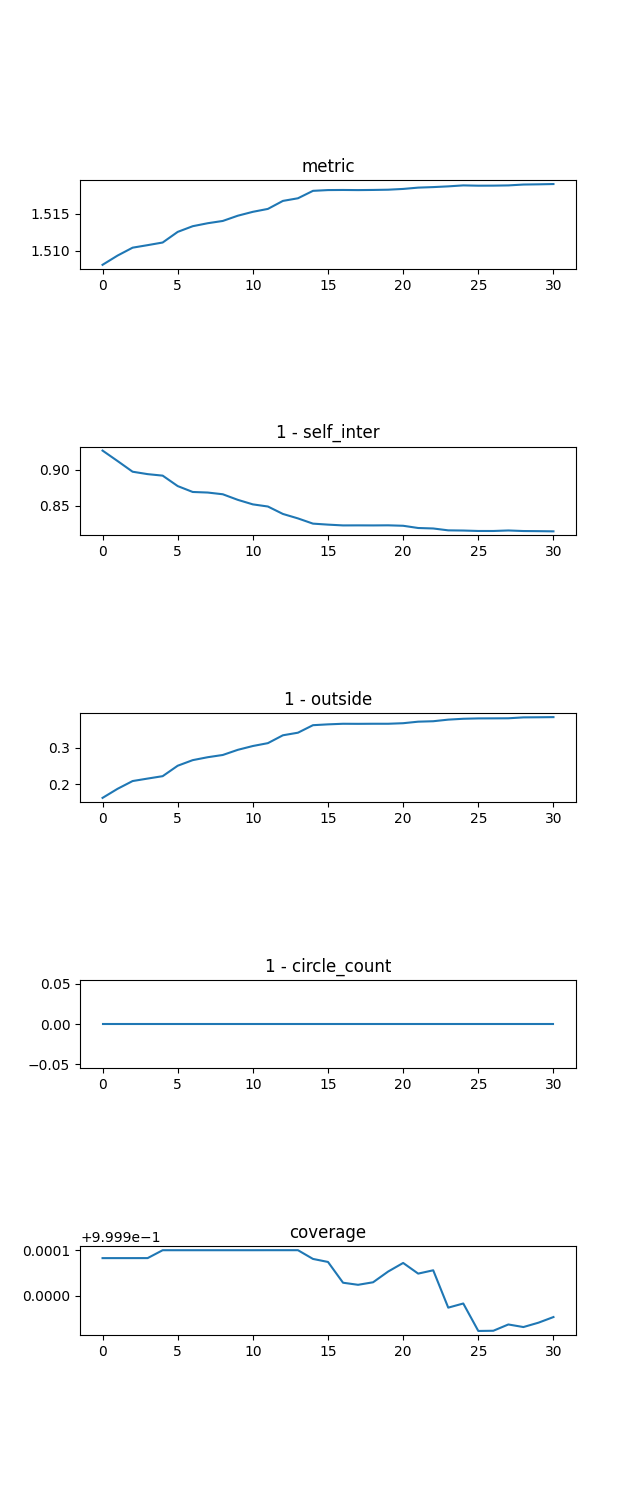
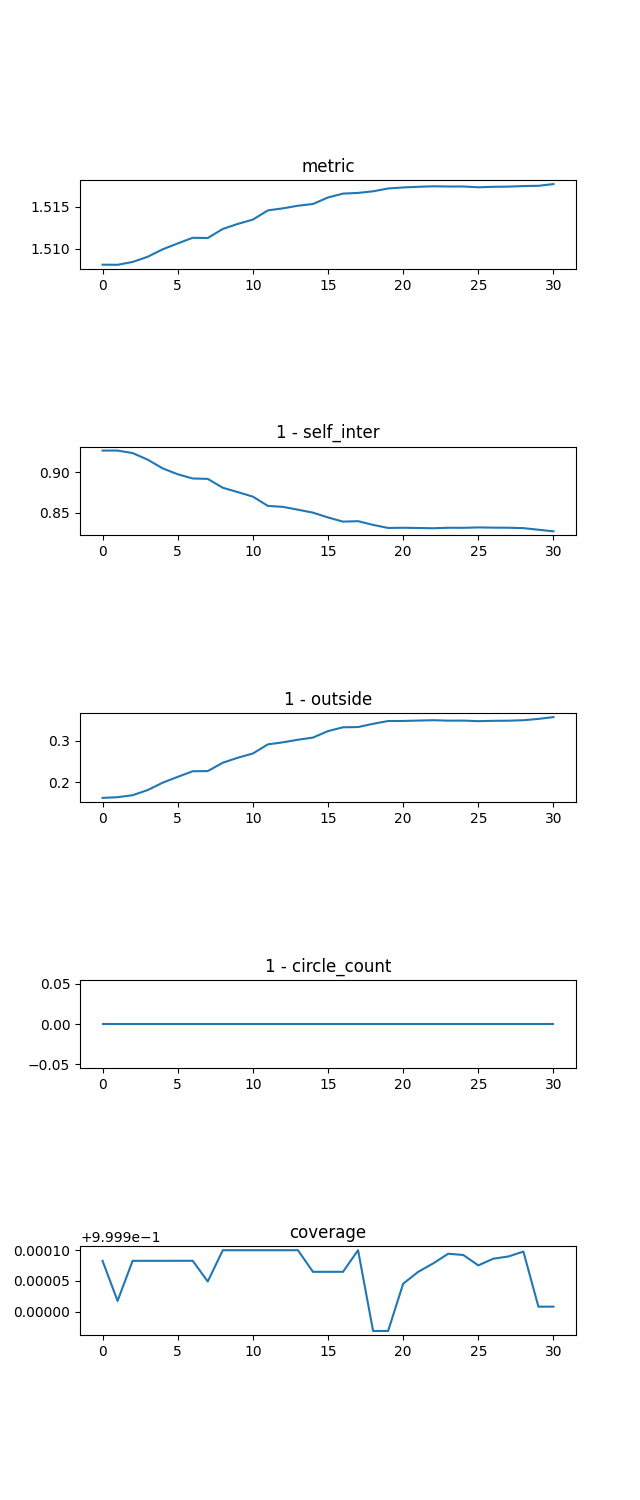
new hexagonal alg

diff --git a/Algorithms/Hexagonal/hexagonal_coverings.py b/Algorithms/Hexagonal/hexagonal_coverings.py
@@ -1,78 +1,12 @@
-from shapely import Point, Polygon, LineString
-import math
-
-from shapely.ops import unary_union
-
-from Utils.Circle import Circle
-
-
-class HexagonalAlgorithm:
-    def __init__(self, P: Polygon, radius: float):
-        self.P = P
-        self.radius = radius
-        (minx, miny, maxx, maxy) = P.bounds
-        self.P_described = Polygon([Point(minx - radius, miny - radius),
-                                    Point(maxx + radius, miny - radius),
-                                    Point(maxx + radius, maxy + radius),
-                                    Point(minx - radius, maxy + radius)])
-
-    def set_params(self,
-                   RESOLUTION: int=5,
-                   ALPHA_RESOLUTION: int=5,
-                   EPS: float = 1e-3):
-        self.RESOLUTION = RESOLUTION
-        self.ALPHA_RESOLUTION = ALPHA_RESOLUTION
-        self.EPS = EPS
-
-    def run_algorithm(self):
-        self.best_ops = (0, 0, 0)
-        self.best_val = float('inf')
-
-        step_alpha = math.pi / 3 / self.ALPHA_RESOLUTION
-        step_x = self.radius / self.RESOLUTION
-        step_y = self.radius / self.RESOLUTION
-        alpha = 0
-        while alpha < math.pi / 3:
-            x = 0
-            while x < self.radius:
-                y = 0
-                while y < self.radius:
-                    S = Point(x, y)
-
-                    important = self.get_important(S, alpha)
-
-                    if len(important) < self.best_val:
-                        self.best_val = len(important)
-                        self.best_ops = (x, y, alpha)
-                    y += step_y
-                x += step_x
-            alpha += step_alpha
-
-    def get_important(self, S, alpha):
-        outer_grid = hexagonal(self.P_described, S, self.radius, alpha)
-
-        inside = [Circle(c, 1) for c in outer_grid if self.P.contains(c)]
-        outside = [Circle(c, 1) for c in outer_grid if not self.P.contains(c)]
-        union = unary_union([c.polygon for c in inside])
-
-        outside.sort(key=
-                     lambda c: self.P.intersection(c.polygon).area,
-                     reverse=True)
-        for c in outside:
-            c_inside_polygon = self.P.intersection(c.polygon)
-            united = unary_union([union, c_inside_polygon])
-            if abs(united.area - union.area) > self.EPS:
-                inside.append(c)
-                union = unary_union([union, c_inside_polygon])
-        return inside
-
-    def get_result(self):
-        return self.get_important(Point(self.best_ops[0], self.best_ops[1]), self.best_ops[2])
-
 
 # Заполнение путём построения шестиугольной сетки.
 # Строит сетку и возвращает центры шестиугольников,
 # которые попали внутрь заданного многоугольника
+import math
+
+import numpy as np
+from shapely import Polygon, Point, LineString
+
 
 def hexagonal(P: Polygon, S: Point, a: float = 1, alpha: float = 0):
     """
@@ -153,3 +87,66 @@ def rotate(p: Point, alpha: float):
     ny = p.x * math.sin(alpha) + p.y * math.cos(alpha)
 
     return Point(nx, ny)
+
+
+# ------------------------------------------------------------------------------
+# Реализация покрытия шестиугольной сеткой с помощью библиотеки Numpy
+# ------------------------------------------------------------------------------
+
+
+def hexagonal_np(P: Polygon, S: Point, a: float = 1, alpha: float = 0):
+    # TODO: сверить размерности
+    rotate = np.array([[np.cos(alpha), -np.sin(alpha)],
+                       [np.sin(alpha), np.cos(alpha)]])
+
+    x0 = np.array([S.x, S.y])
+    (minx, miny, maxx, maxy) = P.bounds
+
+    minx -= x0[0]
+    maxx -= x0[0]
+    miny -= x0[1]
+    maxy -= x0[1]
+
+    v = rotate @ np.array([3 * a, 0])
+    u = rotate @ np.array([3 / 2 * a, a * np.sqrt(3) / 2])
+
+    transition = np.linalg.inv(np.vstack([v, u]).T)
+
+    bounds = transition @ np.array([[minx, maxx, minx, maxx], [miny, maxy, maxy, miny]])
+
+    kminx = np.floor(np.min(bounds[0, :]))
+    kmaxx = np.ceil(np.max(bounds[0, :]))
+    kminy = np.floor(np.min(bounds[1, :]))
+    kmaxy = np.ceil(np.max(bounds[1, :]))
+
+    all_v = (np.arange(kminx, kmaxx + 1) * v.reshape(2, 1)).T
+    all_u = (np.arange(kminy, kmaxy + 1) * u.reshape(2, 1)).T
+
+    coverage = all_v[None, :, :] + all_u[:, None, :]
+
+    # Вернём в изначальную систему координат.
+    coverage += x0
+
+    (minx, miny, maxx, maxy) = P.bounds
+    # Соберём в объекты-точки только те координаты, что могут потенциально пригодиться.
+    shape = coverage.shape
+    coverage = coverage.reshape(shape[0] * shape[1], shape[2])
+
+    cond = np.logical_and(
+        np.logical_and(minx <= coverage[:, 0], coverage[:, 0] <= maxx),
+        np.logical_and(miny <= coverage[:, 1], coverage[:, 1] <= maxy))
+    useful = coverage[cond]
+
+
+    to_points = lambda c: Point(c)
+    to_points_vectorized = np.vectorize(to_points, signature='(d)->()')
+
+    ans = to_points_vectorized(useful)
+    #
+    #for i in range(coverage.shape[0]):
+    #    for j in range(coverage.shape[1]):
+    #        (x, y) = coverage[i, j]
+    #        if minx <= x <= maxx and miny <= y <= maxy:
+    #            ans.append(Point(x, y))
+
+    return list(ans)

diff --git a/Algorithms/Hexagonal/HexagonalAlgorithm.py b/Algorithms/Hexagonal/HexagonalAlgorithm.py
@@ -1,0 +1,80 @@
+import numpy as np
+from shapely import Point, Polygon, LineString
+import math
+
+from shapely.ops import unary_union
+
+from Algorithms.Hexagonal.hexagonal_coverings import hexagonal
+from Utils.Circle import Circle
+
+
+class HexagonalAlgorithm:
+    def __init__(self, P: Polygon, radius: float):
+        self.P = P
+        self.radius = radius
+        (minx, miny, maxx, maxy) = P.bounds
+        self.P_described = Polygon([Point(minx - radius, miny - radius),
+                                    Point(maxx + radius, miny - radius),
+                                    Point(maxx + radius, maxy + radius),
+                                    Point(minx - radius, maxy + radius)])
+
+    def set_params(self,
+                   RESOLUTION: int=5,
+                   ALPHA_RESOLUTION: int=5,
+                   EPS: float = 1e-3,
+                   hex_alg=hexagonal,
+                   REMOVE_REDUNDANT=True):
+        self.RESOLUTION = RESOLUTION
+        self.ALPHA_RESOLUTION = ALPHA_RESOLUTION
+        self.EPS = EPS,
+        self.hex_alg = hex_alg
+        self.REMOVE_REDUNDANT = REMOVE_REDUNDANT
+
+    def run_algorithm(self):
+        self.best_ops = (0, 0, 0)
+        self.best_val = float('inf')
+
+        step_alpha = math.pi / 3 / self.ALPHA_RESOLUTION
+        step_x = self.radius / self.RESOLUTION
+        step_y = self.radius / self.RESOLUTION
+        alpha = 0
+        while alpha < math.pi / 3:
+            x = 0
+            while x < self.radius:
+                y = 0
+                while y < self.radius:
+                    S = Point(x, y)
+
+                    important = self.get_important(S, alpha)
+
+                    if len(important) < self.best_val:
+                        self.best_val = len(important)
+                        self.best_ops = (x, y, alpha)
+                    y += step_y
+                x += step_x
+            alpha += step_alpha
+
+    def get_important(self, S, alpha):
+        outer_grid = self.hex_alg(self.P_described, S, self.radius, alpha)
+
+        if not self.REMOVE_REDUNDANT:
+            return [Circle(c, self.radius) for c in outer_grid]
+
+        # Оставим только те круги, которые вносят значительный вклад в покрытие.
+        inside = [Circle(c, self.radius) for c in outer_grid if self.P.contains(c)]
+        outside = [Circle(c, self.radius) for c in outer_grid if not self.P.contains(c)]
+        union = unary_union([c.polygon for c in inside])
+
+        outside.sort(key=
+                     lambda c: self.P.intersection(c.polygon).area,
+                     reverse=True)
+        for c in outside:
+            c_inside_polygon = self.P.intersection(c.polygon)
+            united = unary_union([union, c_inside_polygon])
+            if abs(united.area - union.area) > self.EPS:
+                inside.append(c)
+                union = unary_union([union, c_inside_polygon])
+        return inside
+
+    def get_result(self, ):
+        return self.get_important(Point(self.best_ops[0], self.best_ops[1]), self.best_ops[2])

diff --git a/Examples/FlexibleBnB/triple_bnb_combined2.py b/Examples/FlexibleBnB/triple_bnb_combined2.py
@@ -6,7 +6,7 @@ from Algorithms.BranchesAndBounds.FlexibleBnBAlgorithm import FlexibleBnBAlgorit
 from Algorithms.BranchesAndBounds.Loggers.BnBAnimationLogger import BnBAnimationLogger
 from Algorithms.BranchesAndBounds.Loggers.BnBMetricLogger import BnBMetricLogger
 from Algorithms.BranchesAndBounds.ParamsClasses.TripleBnBParams import TripleBnBParams
-from Algorithms.Hexagonal.hexagonal import HexagonalAlgorithm
+from Algorithms.Hexagonal.HexagonalAlgorithm import HexagonalAlgorithm
 from Algorithms.NBodies.GravityFunctions import smooth_gravity_on_region_with_sign
 from Algorithms.NBodies.RungeKuttaAlgorithm import RungeKuttaAlgorithm
 from Examples.polygons import polygons_dict
@@ -45,8 +45,8 @@ def main(poly_name='P1', show_plt=False):
         params=TripleBnBParams(
             P,
             len(hex_ans),
-            animation_logger=BnBAnimationLogger(),
-            metric_logger=BnBMetricLogger(),
+            animation_logger=None, #BnBAnimationLogger(),
+            metric_logger=None, #BnBMetricLogger(),
             MOVE_SCHEDULE=(lambda x: 0.97 * x)),
         fixed=list(inners)
     )
@@ -110,6 +110,6 @@ def main(poly_name='P1', show_plt=False):
 
 
 if __name__ == '__main__':
-    for poly_name in polygons_dict.keys():
-        main(poly_name)
-    # main('P1', show_plt=True)
+    #for poly_name in polygons_dict.keys():
+    #    main(poly_name)
+    main('P8', show_plt=True)

diff --git a/Algorithms/Hexagonal/test.py b/Algorithms/Hexagonal/test.py
@@ -1,0 +1,24 @@
+import numpy as np
+from matplotlib import pyplot as plt
+from shapely import Point
+
+from Algorithms.Hexagonal.hexagonal_coverings import hexagonal_np
+from Examples.polygons import polygons_dict
+from Utils.Circle import Circle
+from Utils.drawing import draw_polygon, draw_circles
+
+P = polygons_dict['P9']
+R = 1  # Радиус.
+
+centers = hexagonal_np(P, Point(0.7, 0), R, np.pi)
+circles = [Circle(c, R) for c in centers]
+
+fig = plt.figure()
+ax = fig.gca()
+# Отрисуем результат построения сетки.
+
+ax.set_aspect('equal', adjustable='box')
+draw_polygon(ax, P)
+draw_circles(ax, circles)
+
+plt.show()

diff --git a/Examples/FlexibleBnB/flex_bnb_combined2.py b/Examples/FlexibleBnB/flex_bnb_combined2.py
@@ -4,7 +4,7 @@ import numpy as np
 from matplotlib import pyplot as plt
 from Algorithms.BranchesAndBounds.FlexibleBnBAlgorithm import FlexibleBnBAlgorithm
 from Algorithms.BranchesAndBounds.ParamsClasses.FlexibleBnBParams import FlexibleBnBParams
-from Algorithms.Hexagonal.hexagonal import HexagonalAlgorithm
+from Algorithms.Hexagonal.HexagonalAlgorithm import HexagonalAlgorithm
 from Algorithms.NBodies.GravityFunctions import smooth_gravity_on_region_with_sign
 from Algorithms.NBodies.RungeKuttaAlgorithm import RungeKuttaAlgorithm
 from Examples.polygons import polygons_dict

diff --git a/Examples/Combined/combined1_main.py b/Examples/Combined/combined1_main.py
@@ -3,7 +3,7 @@ import time
 import numpy as np
 from matplotlib import pyplot as plt
 from Algorithms.BranchesAndBounds.BranchesAndBounds import BnBAlgorithm
-from Algorithms.Hexagonal.hexagonal import HexagonalAlgorithm
+from Algorithms.Hexagonal.HexagonalAlgorithm import HexagonalAlgorithm
 from Algorithms.NBodies.GravityFunctions import smooth_gravity_on_region_with_sign
 from Algorithms.NBodies.RungeKuttaAlgorithm import RungeKuttaAlgorithm
 from Examples.polygons import polygons_dict

diff --git a/Examples/Combined/combined2_main.py b/Examples/Combined/combined2_main.py
@@ -3,7 +3,7 @@ import time
 import numpy as np
 from matplotlib import pyplot as plt
 from Algorithms.BranchesAndBounds.BranchesAndBounds import BnBAlgorithm
-from Algorithms.Hexagonal.hexagonal import HexagonalAlgorithm
+from Algorithms.Hexagonal.HexagonalAlgorithm import HexagonalAlgorithm
 from Algorithms.NBodies.GravityFunctions import smooth_gravity_on_region_with_sign
 from Algorithms.NBodies.RungeKuttaAlgorithm import RungeKuttaAlgorithm
 from Examples.polygons import polygons_dict

diff --git a/Examples/BnB/bnb_halton_main.py b/Examples/BnB/bnb_halton_main.py
@@ -4,7 +4,7 @@ from shapely import Point, Polygon
 
 from Algorithms.BranchesAndBounds.BranchesAndBounds import bnb
 from Algorithms.Halton.Halton import halton
-from Algorithms.Hexagonal.hexagonal import HexagonalAlgorithm
+from Algorithms.Hexagonal.HexagonalAlgorithm import HexagonalAlgorithm
 from Examples.polygons import polygons_dict
 from Utils.Circle import Circle
 from Utils.drawing import draw_polygon, draw_circles

diff --git a/Examples/BnB/bnb_sobol_main.py b/Examples/BnB/bnb_sobol_main.py
@@ -4,7 +4,7 @@ from shapely import Point, Polygon
 
 from Algorithms.BranchesAndBounds.BranchesAndBounds import bnb
 from Algorithms.Halton.Halton import halton
-from Algorithms.Hexagonal.hexagonal import HexagonalAlgorithm
+from Algorithms.Hexagonal.HexagonalAlgorithm import HexagonalAlgorithm
 from Algorithms.Sobol.Sobol import sobol
 from Examples.polygons import polygons_dict
 from Utils.Circle import Circle

diff --git a/Examples/BnB/bnb_hex_main.py b/Examples/BnB/bnb_hex_main.py
@@ -1,7 +1,7 @@
 import time
 from matplotlib import pyplot as plt
 from Algorithms.BranchesAndBounds.BranchesAndBounds import bnb
-from Algorithms.Hexagonal.hexagonal import HexagonalAlgorithm
+from Algorithms.Hexagonal.HexagonalAlgorithm import HexagonalAlgorithm
 from Examples.polygons import polygons_dict
 from Utils.drawing import draw_polygon, draw_circles
 

diff --git a/Algorithms/BranchesAndBounds/FlexibleBnBAlgorithm.py b/Algorithms/BranchesAndBounds/FlexibleBnBAlgorithm.py
@@ -47,7 +47,8 @@ class FlexibleBnBAlgorithm:
             if main_branch.metric > best_branch.metric:
                 best_branch = main_branch
 
-            logger.snap(main_branch)
+            if logger:
+                logger.snap(main_branch)
             iterations -= 1
 
         self.circles = best_branch.circles

diff --git a/Examples/hexagonal_main.py b/Examples/hexagonal_main.py
@@ -7,7 +7,7 @@ from matplotlib import pyplot as plt
 # from Algorithms.hexagonal import hexagonal
 
 from shapely import Point, Polygon, unary_union
-from Algorithms.Hexagonal.hexagonal import hexagonal
+from Algorithms.Hexagonal.HexagonalAlgorithm import hexagonal
 from Utils.Circle import Circle
 
 EPS = 1e-3
